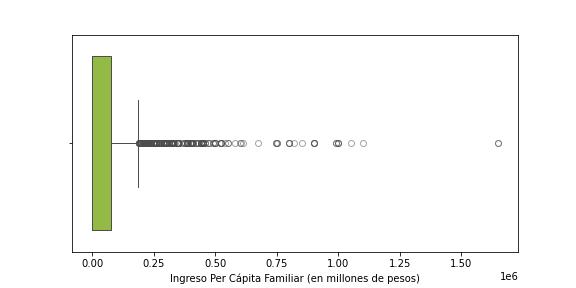
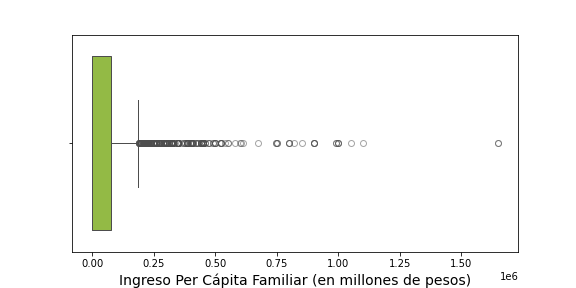
actualizo

Changed region(s): [[0.1875, 0.9375, 0.8125, 1.0]]

diff --git a/TP4/parte1_diego.py b/TP4/parte1_diego.py
@@ -194,11 +194,10 @@ data_x = df_clean['ipcf']
 # 1. Gráfico de caja expandido
 fig, ax = plt.subplots(figsize=(8, 4))
 sns.boxplot(x=data_x, ax=ax, color='yellowgreen', flierprops={'marker': 'o', 'color': 'red', 'alpha': 0.5})
-ax.set_title('Boxplot para detectar outliers')
-ax.set_xlabel('Ingreso Per Cápita Familiar')
+ax.set_title('')
+ax.set_xlabel('Ingreso Per Cápita Familiar (en millones de pesos)', fontsize=14)
 plt.show()
 fig.savefig("C:/Users/sofia/Desktop/Maestría/Tercer trimestre/Machine Learning/Trabajos-Pr-cticos/TP4/output/boxplot_ipcf.png")
-
 
 # 2. Gráfico de dispersión log-transformado
 fig, ax = plt.subplots(figsize=(8, 4))
@@ -239,8 +238,8 @@ data_x2 = df_clean['t_vi']
 # Gráfico de caja expandido
 fig, ax = plt.subplots(figsize=(8, 4))
 sns.boxplot(x=data_x2, ax=ax, color='yellowgreen', flierprops={'marker': 'o', 'color': 'red', 'alpha': 0.5})
-ax.set_title('Boxplot para detectar outliers')
-ax.set_xlabel('Ingreso No Laboral Per Cápita')
+ax.set_title('')
+ax.set_xlabel('Ingreso No Laboral Per Cápita (en millones de pesos)', fontsize=14)
 plt.show()
 fig.savefig("C:/Users/sofia/Desktop/Maestría/Tercer trimestre/Machine Learning/Trabajos-Pr-cticos/TP4/output/boxplot_tvi.png")
 
@@ -250,8 +249,8 @@ data_x3 = df_clean['edad']
 # Gráfico de caja expandido
 fig, ax = plt.subplots(figsize=(8, 4))
 sns.boxplot(x=data_x3, ax=ax, color='yellowgreen', flierprops={'marker': 'o', 'color': 'red', 'alpha': 0.5})
-ax.set_title('Boxplot para detectar outliers')
-ax.set_xlabel('Edad')
+ax.set_title('')
+ax.set_xlabel('Edad', fontsize=14)
 plt.show()
 fig.savefig("C:/Users/sofia/Desktop/Maestría/Tercer trimestre/Machine Learning/Trabajos-Pr-cticos/TP4/output/boxplot_edad.png")
 
